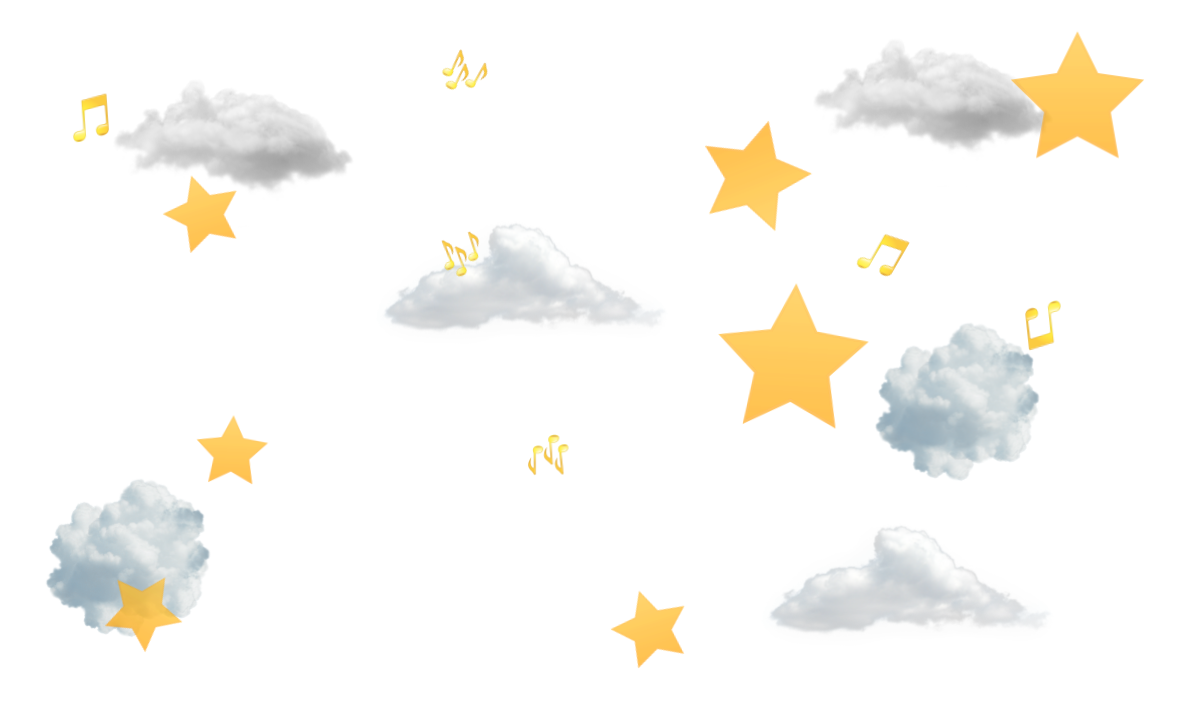
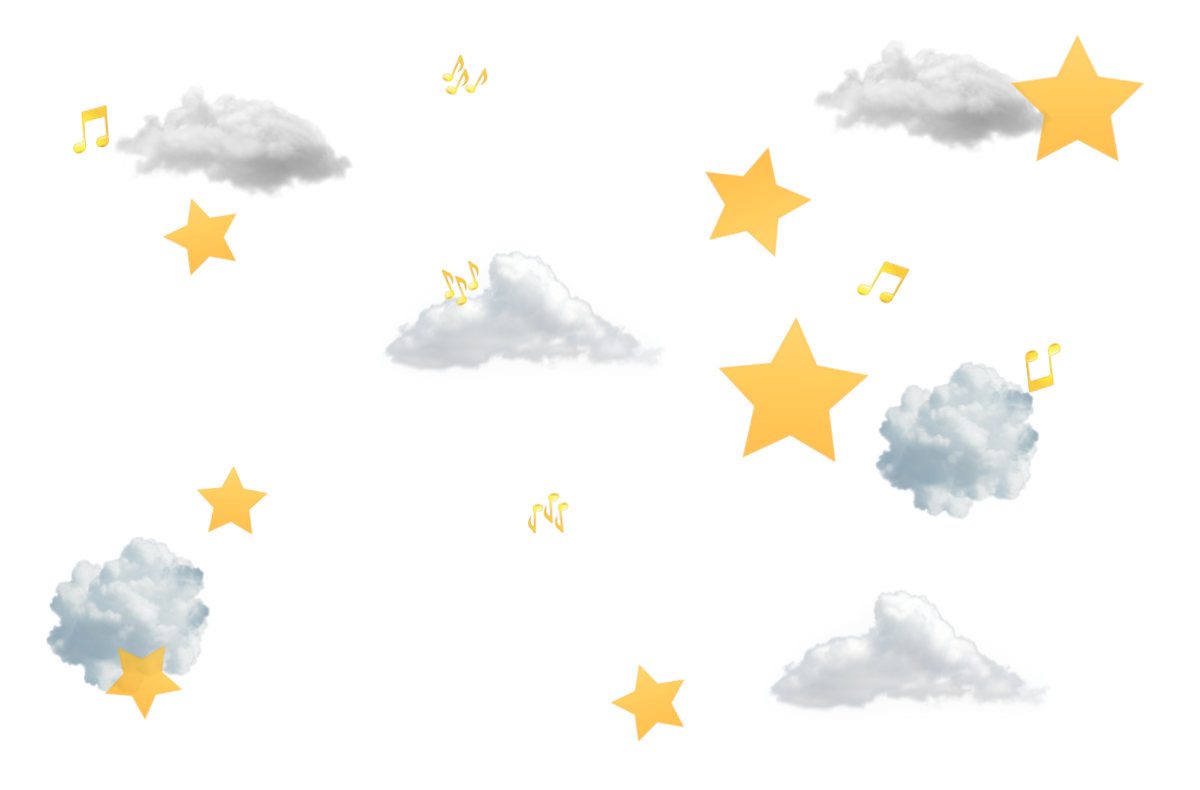
Changed files

diff --git a/code/main.py b/code/main.py
@@ -34,9 +34,10 @@ class Game:
         self.button = pygame.image.load("resources/copybutton3.png")
         self.pizzaNotes1 = pygame.image.load("resources/treble_notes.png")
         self.pizzaPlay = pygame.image.load("resources/pizza_notes.png")
-        self.pizzaBackground = pygame.image.load("resources/pizzaBackground.png")
+        self.pizzaBackground = pygame.image.load("resources/pizzabackground3.png")
         self.creditsImage = pygame.image.load("resources/creditsbackground.png")
         self.copiedtxt = pygame.image.load("resources/copied.png")
+        self.starbackground = pygame.image.load("resources/starbg.png")
 
         # Variables
         self.startGame = False
@@ -333,6 +334,7 @@ class Game:
 
                 if self.level1picked:
                     self.screen.fill("black")
+                    self.screen.blit(self.starbackground, (0, 0))
                     self.screen.blit(self.pizzaBackground, (0, 0))
                     self.level.run()
                     if self.level.reset and self.level.stagefinished:
